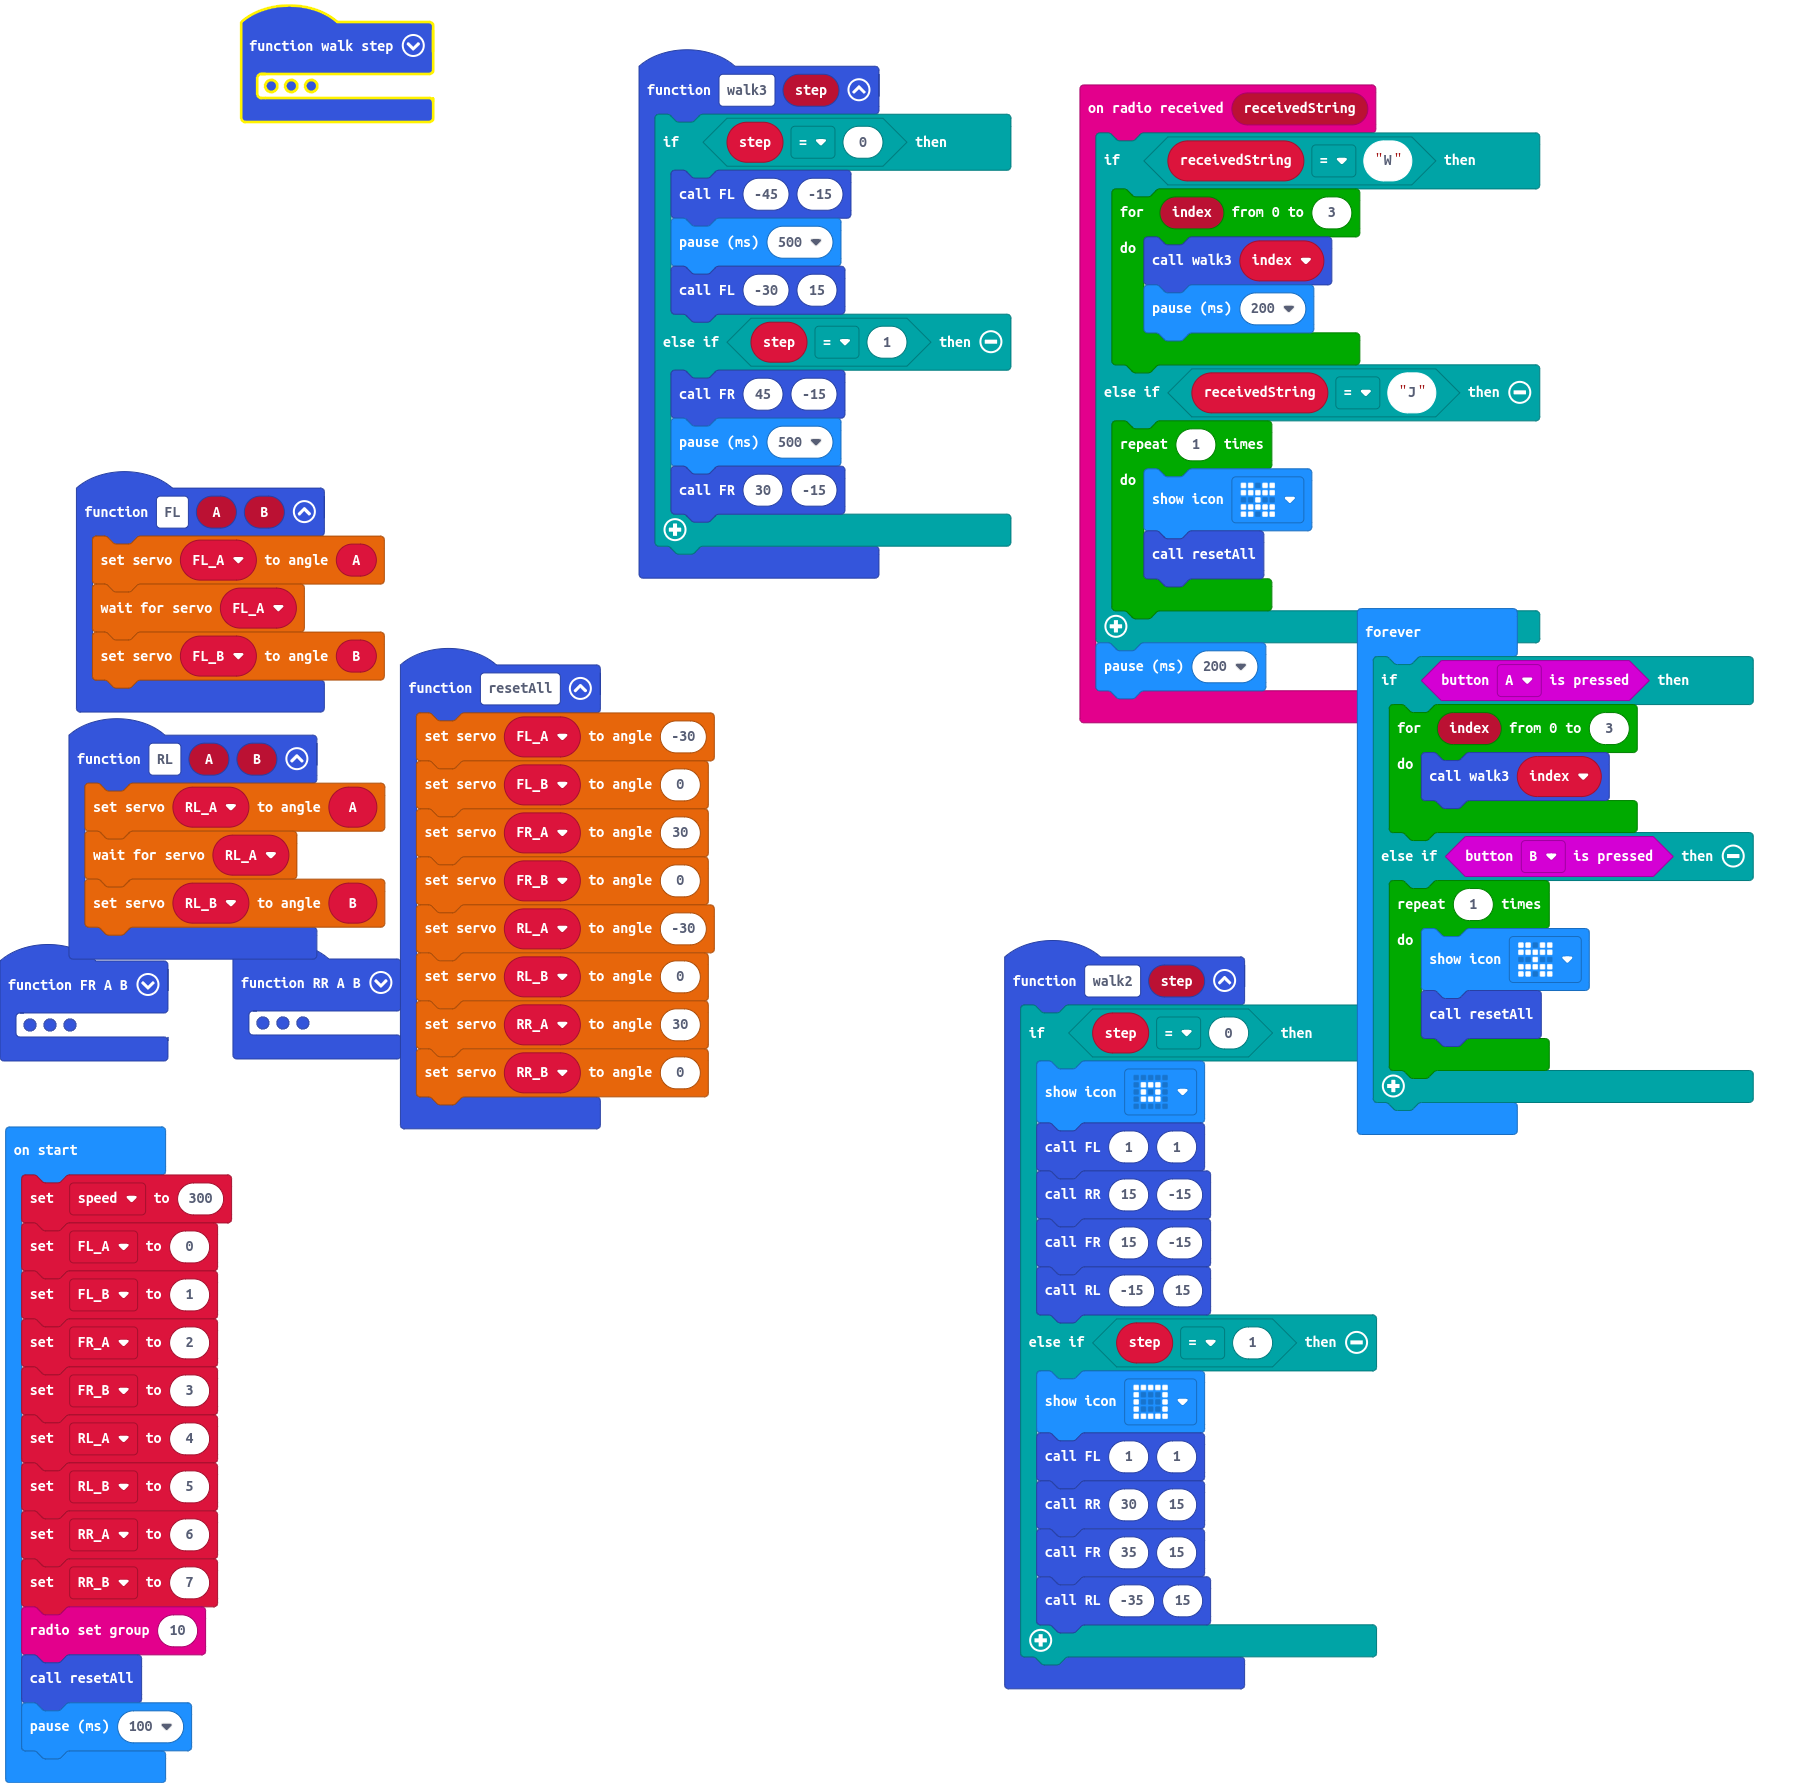
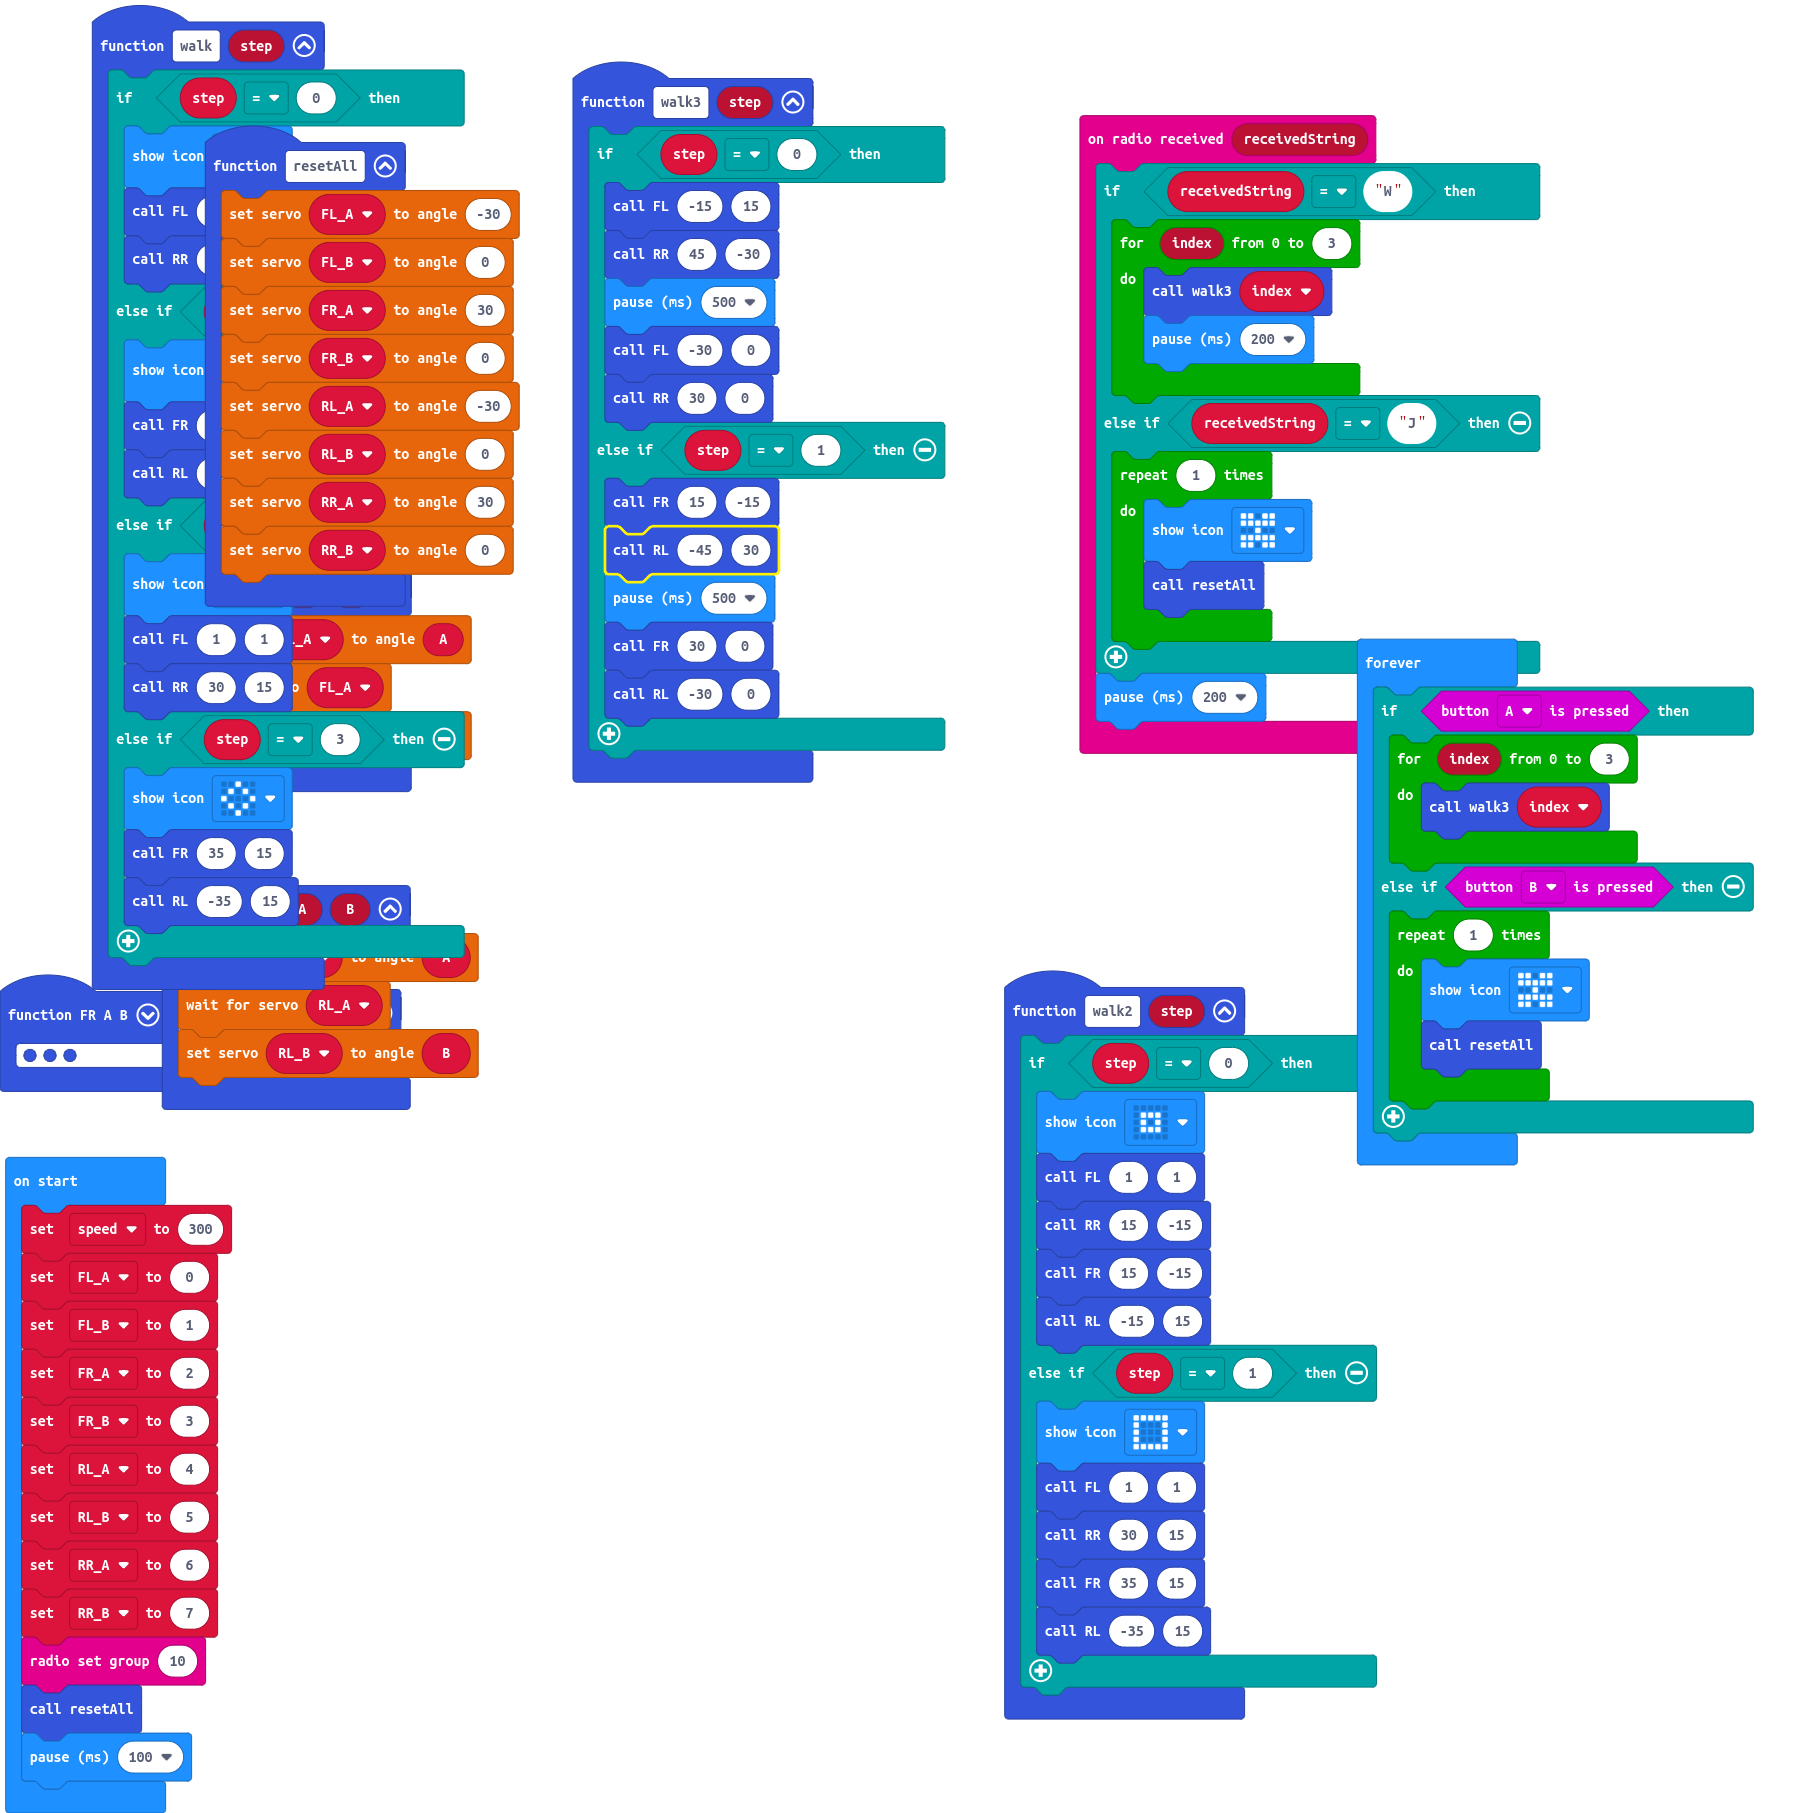
all four legs pushing down FL + RR and FR + RL but it's not "walking"

Changed region(s): [[0.0, 0.0, 0.5584, 0.9871], [0.5584, 0.0308, 0.9928, 0.9563]]

diff --git a/main.ts b/main.ts
@@ -5,13 +5,17 @@ function FR (A: number, B: number) {
 }
 function walk3 (step: number) {
     if (step == 0) {
-        FL(-45, -15)
+        FL(-15, 15)
+        RR(45, -30)
         basic.pause(500)
-        FL(-30, 15)
+        FL(-30, 0)
+        RR(30, 0)
     } else if (step == 1) {
-        FR(45, -15)
+        FR(15, -15)
+        RL(-45, 30)
         basic.pause(500)
-        FR(30, -15)
+        FR(30, 0)
+        RL(-30, 0)
     }
 }
 function FL (A: number, B: number) {
